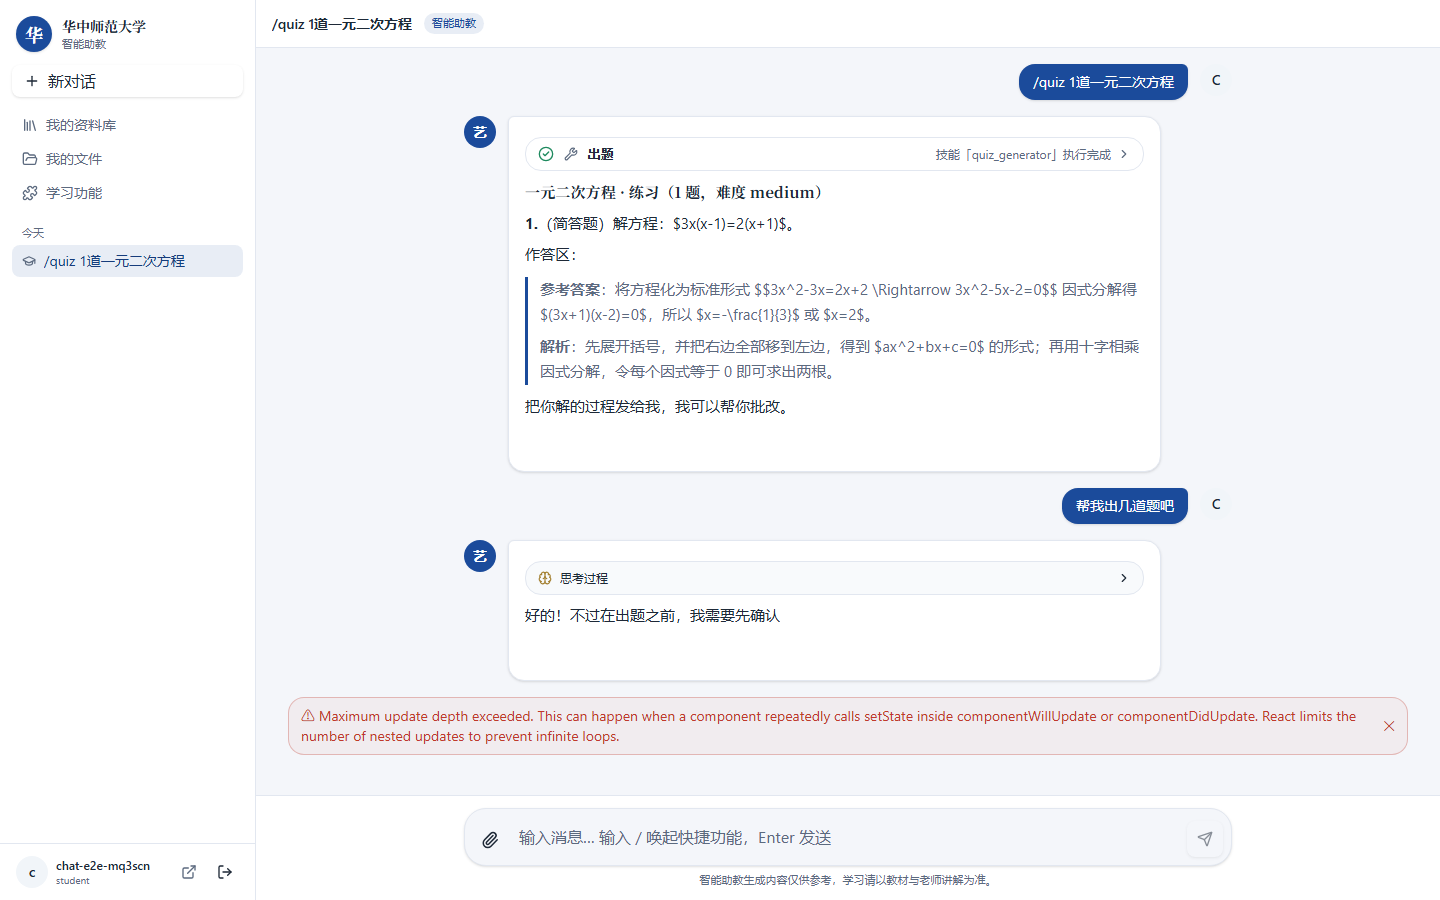
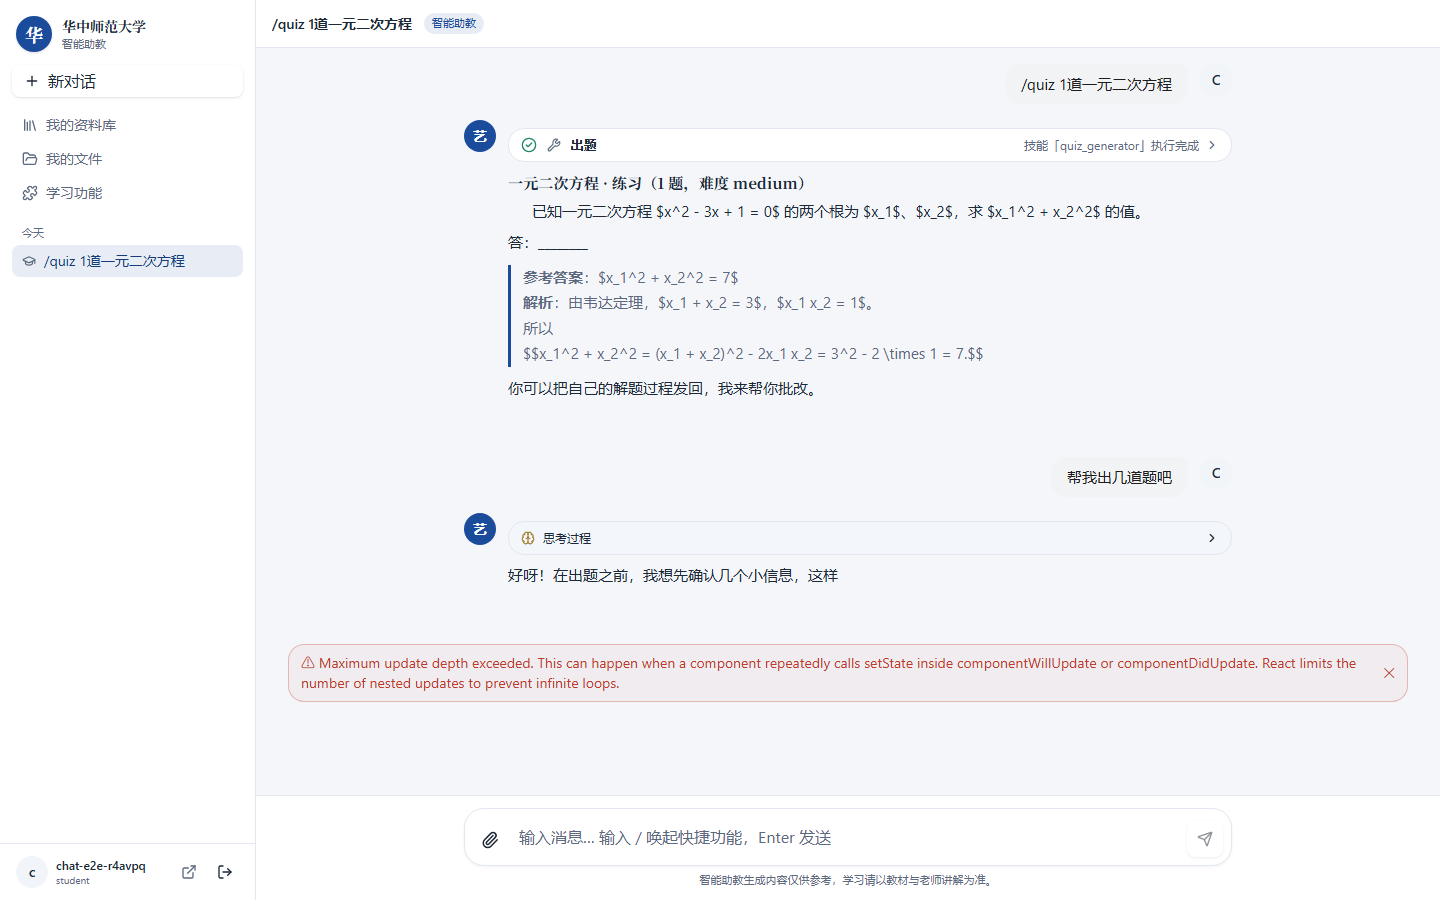
style(ui): 参考灵犀/WPS 办公风去 AI 味（第一波）
- AI 助手消息去气泡化：纯文本流直接呈现（灵犀式），结构化卡片（思考/工具/提问/产物）保留
- 用户消息：实心品牌蓝 → 浅灰 #F2F3F5 深字大圆角胶囊（克制不抢眼）
- 欢迎态：2 列大卡片 → 输入框上方一排快捷功能胶囊（白底细边框线性图标+短文案）
- 输入框：大圆角 20px + 极轻阴影 + 柔和聚焦（灵犀式）
- 背景 #f4f6fa → 更中性 #f7f8fa、文字 #1e2937 → #1d1d1f
- 我的文件/资料库卡片：去阴影、去 hover 上浮（hover 只变边框色）
- 桌面+移动 E2E 全绿

diff --git a/web/src/pages/ChatPage.tsx b/web/src/pages/ChatPage.tsx
@@ -751,27 +751,28 @@ export default function ChatPage() {
           )}
 
           {messages.length === 0 && !streaming && (
-            <div className="mx-auto mt-10 max-w-2xl">
-              <div className="mb-8 text-center">
-                <div className="mx-auto mb-3 flex size-16 items-center justify-center rounded-full bg-ccnu-blue/10 font-display text-3xl font-bold text-ccnu-blue">
+            <div className="mx-auto mt-8 max-w-2xl">
+              <div className="mb-5 text-center">
+                <div className="mx-auto mb-3 flex size-12 items-center justify-center rounded-full bg-ccnu-blue/10 font-display text-xl font-bold text-ccnu-blue">
                   华
                 </div>
-                <h2 className="font-display text-xl font-bold">华中师范大学 · 智能助教</h2>
+                <h2 className="font-display text-lg font-bold">华中师范大学 · 智能助教</h2>
                 <p className="mt-1 text-xs text-ccnu-gold-deep">求实创新 · 立德树人</p>
-                <p className="mt-2 text-xs text-muted-foreground">
+                <p className="mt-1.5 text-xs text-muted-foreground">
                   多轮对话、实时回复、输入 <code>/</code> 唤起快捷功能、生成可下载的学习文件
                 </p>
               </div>
-              <div className="grid grid-cols-2 gap-3">
+              {/* 灵犀式：输入框上方一排快捷功能胶囊（非大卡片） */}
+              <div className="flex flex-wrap items-center justify-center gap-2">
                 {WELCOME_GUIDES.map((g) => (
                   <button
                     key={g.title}
-                    className="group rounded-xl border border-border bg-card p-3.5 text-left shadow-sm transition-all hover:-translate-y-0.5 hover:border-ccnu-blue/40 hover:shadow-md"
+                    title={g.desc}
+                    className="inline-flex items-center gap-1.5 rounded-full border border-[#E5E6EB] bg-white px-3 py-1.5 text-xs text-[#333] transition-colors hover:border-ccnu-blue/50 hover:text-ccnu-blue"
                     onClick={() => void handleSend(g.prompt)}
                   >
-                    <g.icon className="mb-2 size-5 text-ccnu-blue" />
-                    <div className="text-sm font-semibold">{g.title}</div>
-                    <div className="mt-0.5 text-xs leading-relaxed text-muted-foreground">{g.desc}</div>
+                    <g.icon className="size-3.5" />
+                    {g.title}
                   </button>
                 ))}
               </div>
@@ -814,7 +815,7 @@ export default function ChatPage() {
                 ))}
               </div>
             )}
-            <div className="flex items-end gap-2 rounded-xl border border-border bg-background p-2 shadow-sm transition-all duration-200 focus-within:border-ccnu-blue/60 focus-within:bg-card focus-within:shadow-md focus-within:ring-4 focus-within:ring-ccnu-blue/10">
+            <div className="flex items-end gap-2 rounded-[20px] border border-border bg-white p-2 shadow-[0_1px_3px_rgba(20,35,60,0.06)] transition-shadow duration-200 focus-within:border-ccnu-blue/50 focus-within:shadow-[0_2px_10px_rgba(27,75,155,0.12)] focus-within:ring-4 focus-within:ring-ccnu-blue/10">
               <input
                 ref={fileInputRef}
                 type="file"
@@ -1013,16 +1014,18 @@ function MessageRow({
       >
         {isUser ? userName : '艺'}
       </div>
-      <div className={`min-w-0 max-w-[85%] ${isUser ? 'text-right' : 'flex-1'}`}>
+      <div className={`min-w-0 ${isUser ? 'max-w-[85%] text-right' : 'flex-1'}`}>
         {isUser ? (
-          <div className="inline-block rounded-2xl rounded-tr-sm bg-ccnu-blue px-3.5 py-2 text-left text-sm text-white shadow-sm">
+          // 用户消息：浅灰胶囊（灵犀风格——克制，不抢眼）
+          <div className="inline-block rounded-2xl rounded-tr-md bg-[#F2F3F5] px-4 py-2 text-left text-[15px] leading-relaxed text-[#1D1D1F]">
             {m.parts
               .filter((p) => p.type === 'text')
               .map((p) => (p as { text: string }).text)
               .join('')}
           </div>
         ) : (
-          <div className="rounded-2xl rounded-tl-sm border border-border bg-card px-4 py-3 shadow-sm">
+          // 助手消息：去气泡化文本流（灵犀风格——像文档，不包卡片）
+          <div className="min-w-0">
             {parts.length === 0 && <ThinkingIndicator />}
             {parts.map((p, i) => {
               if (p.type === 'text') return <ChatMarkdown key={i} text={p.text ?? ''} />

diff --git a/web/src/index.css b/web/src/index.css
@@ -74,17 +74,17 @@
   --ccnu-gold-deep: #a37f2f;
   --ccnu-gold-soft: rgba(201, 162, 75, 0.14);
 
-  /* 表面 & 文本 */
-  --bg: #f4f6fa;
+  /* 表面 & 文本（灵犀式：更白更中性） */
+  --bg: #f7f8fa;
   --bg-sidebar: #ffffff;
   --bg-input: #ffffff;
-  --bg-hover: #eef1f7;
+  --bg-hover: #eef1f6;
   --bg-code: #f3f5fa;
   --surface-0: #ffffff;
   --surface-1: #fafbfd;
-  --border: #e2e7f0;
+  --border: #e4e8ef;
   --border-strong: #c9d3e2;
-  --text: #1e2937;
+  --text: #1d1d1f;
   --text-dim: #5c6a7f;
   --text-faint: #8a95a8;
 

diff --git a/web/src/pages/ArtifactsPage.tsx b/web/src/pages/ArtifactsPage.tsx
@@ -262,7 +262,7 @@ export default function ArtifactsPage() {
             return (
               <div
                 key={a.id}
-                className="group overflow-hidden rounded-xl border border-border bg-card shadow-sm transition-all duration-200 hover:-translate-y-0.5 hover:shadow-lg"
+                className="group overflow-hidden rounded-lg border border-border bg-card transition-colors hover:border-ccnu-blue/30"
               >
                 <button
                   className="flex w-full flex-col text-left"

diff --git a/web/src/pages/LibraryPage.tsx b/web/src/pages/LibraryPage.tsx
@@ -148,7 +148,7 @@ export default function LibraryPage() {
         </div>
       )}
 
-      <div className="overflow-hidden rounded-xl border border-border bg-card shadow-sm">
+      <div className="overflow-hidden rounded-lg border border-border bg-card">
         <div className="hidden grid-cols-[minmax(0,1fr)_90px_110px_160px_40px] items-center gap-2 border-b border-border bg-muted/50 px-4 py-2.5 text-xs font-medium text-muted-foreground sm:grid">
           <span>文件名</span>
           <span>大小</span>
